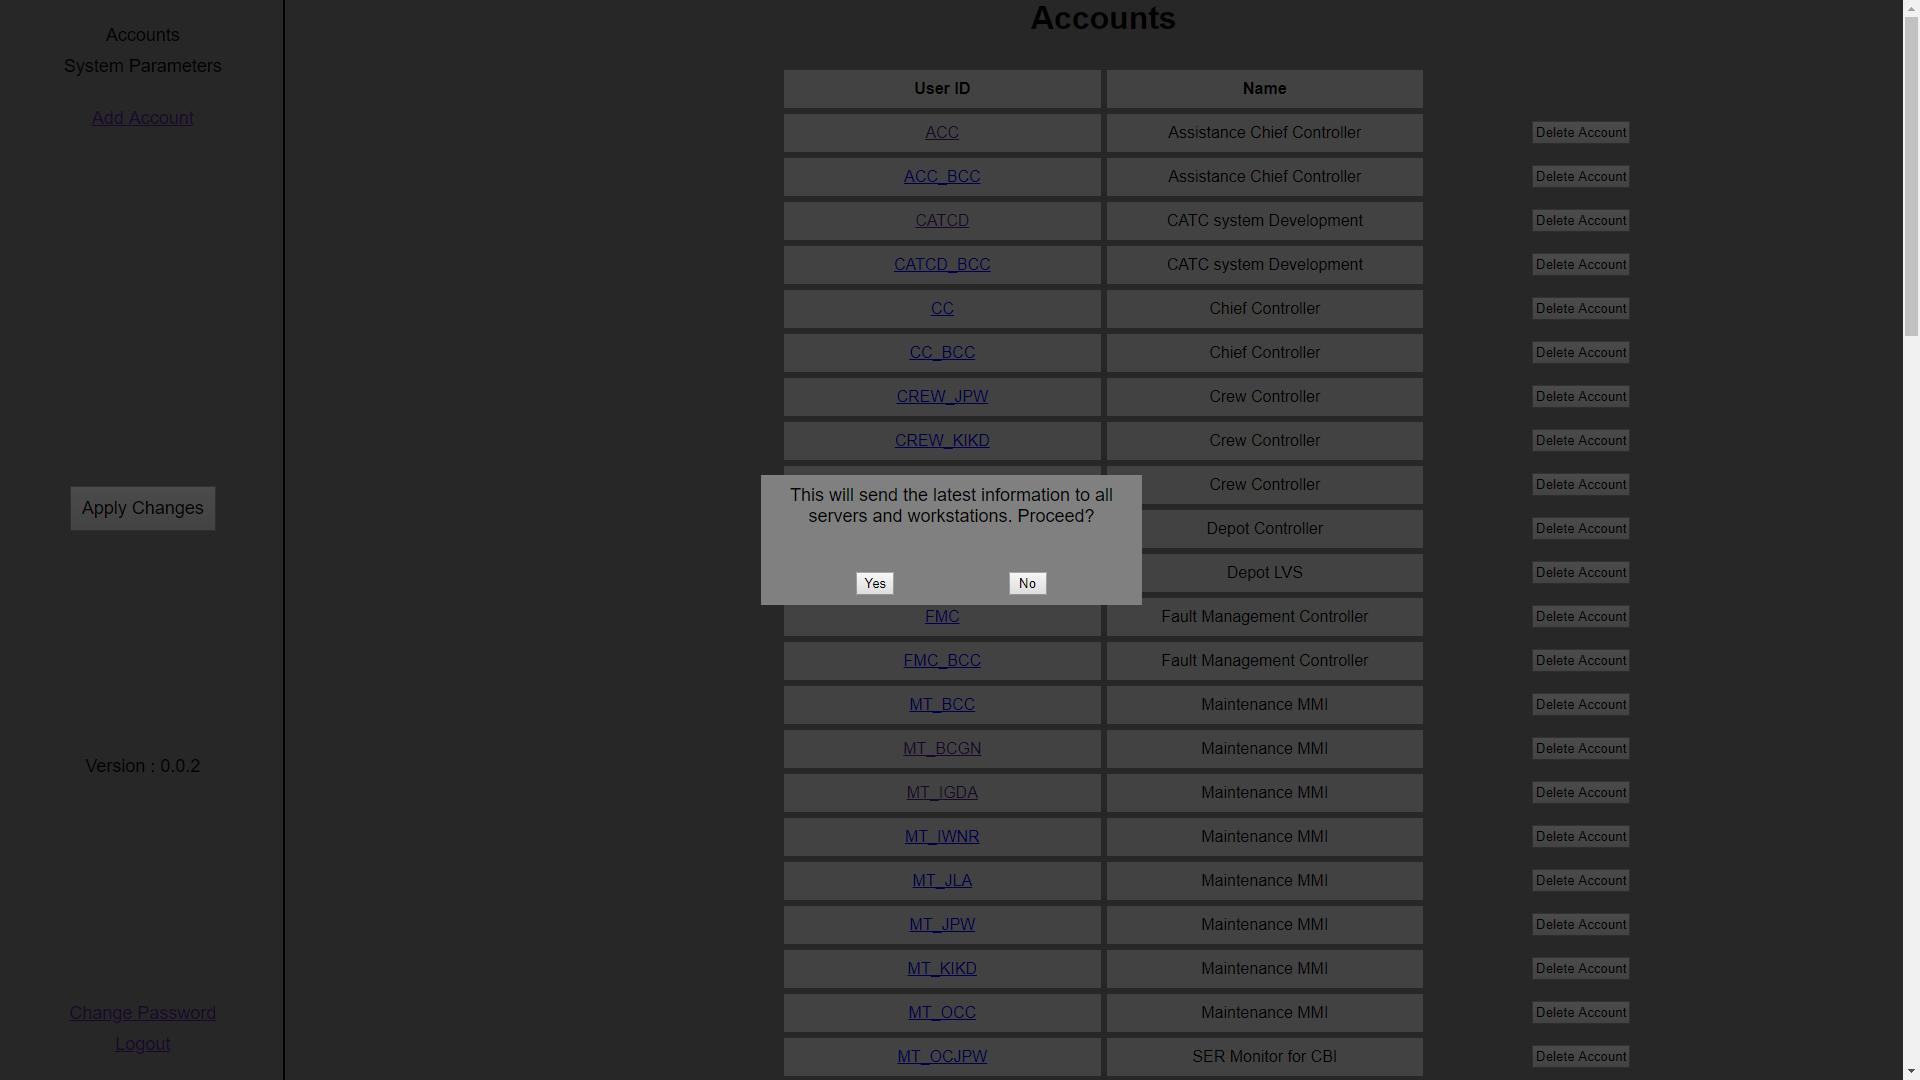
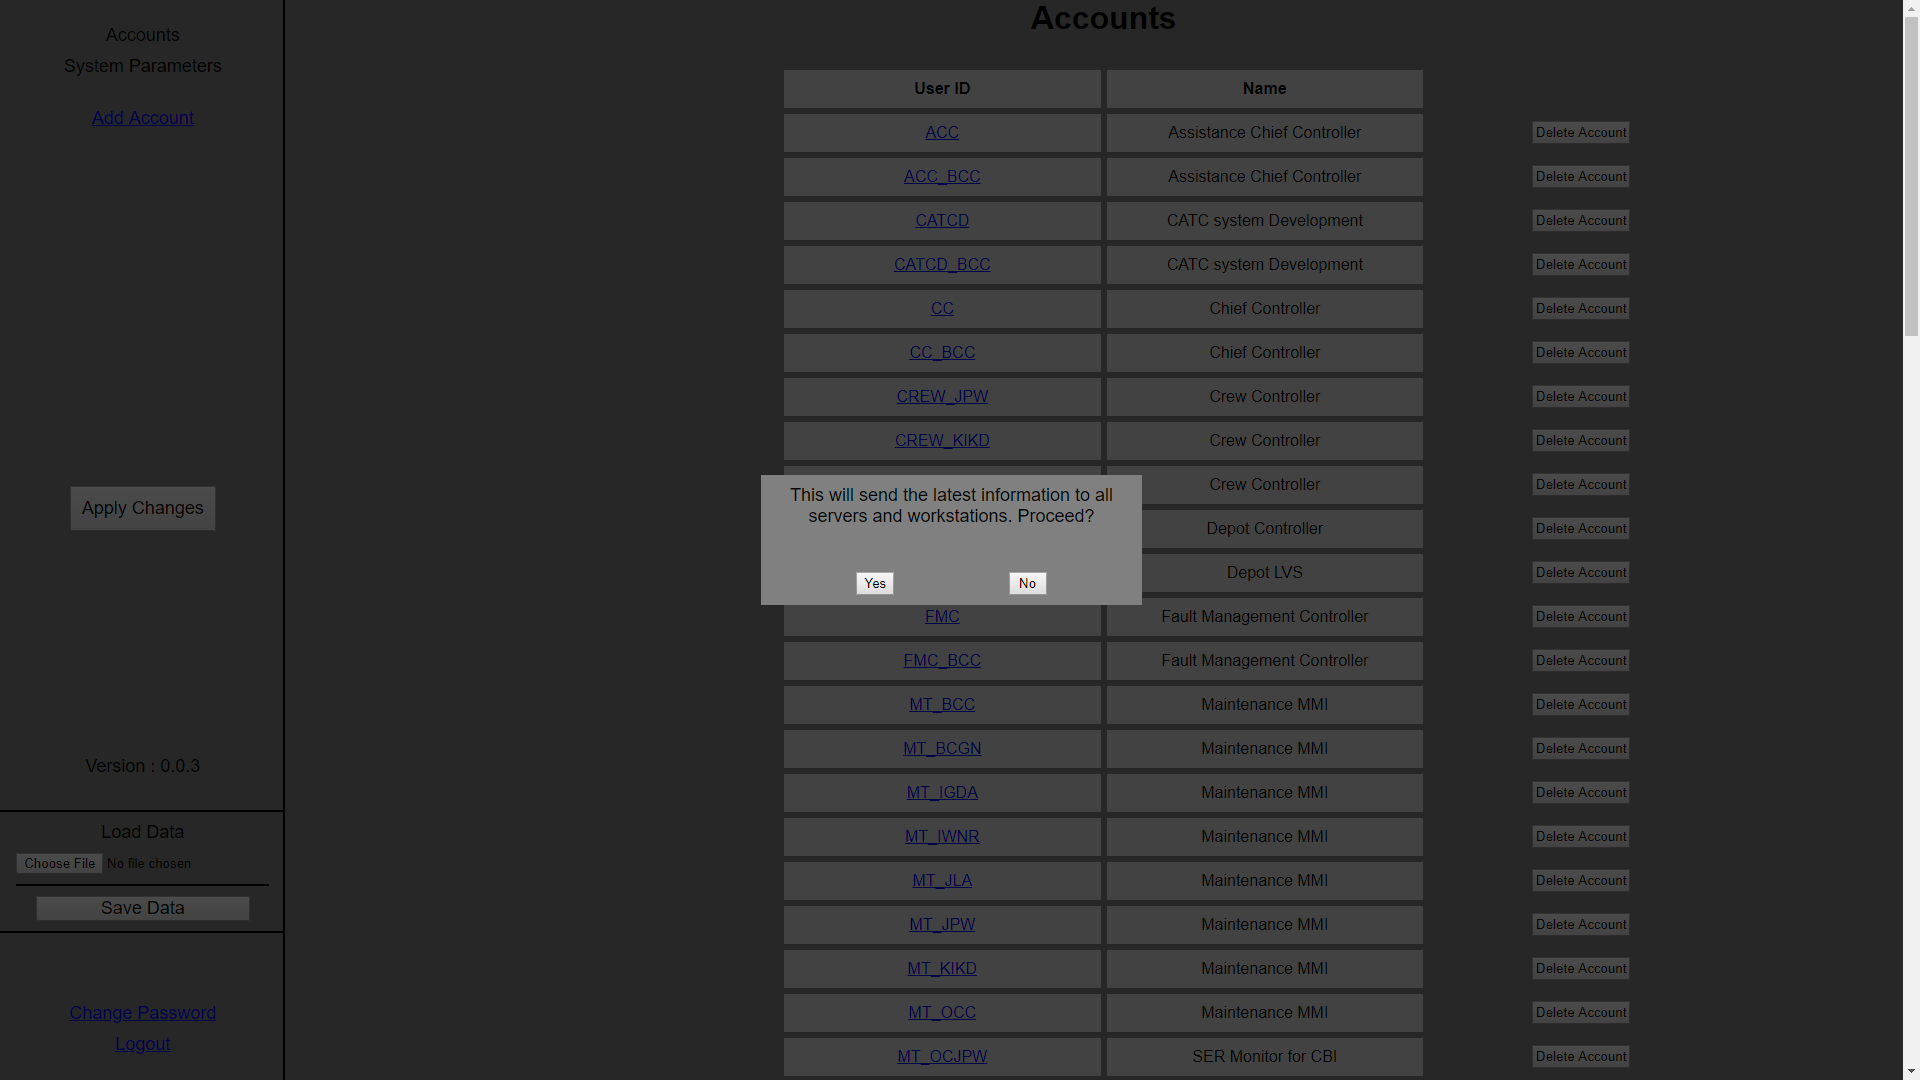
Updated Docs, fixed deletion bug in RS/Crew Roster

diff --git a/doc/Docs.md b/doc/Docs.md
@@ -1,45 +1,55 @@
 - [ASPMS](#aspms)
-    - [Pre Installation Instructions](#pre-installation-instructions)
-    - [How to Install](#how-to-install)
-        - [Build from source](#build-from-source)
-        - [Run Precompiled binary (ASPMS)](#run-precompiled-binary-aspms)
-    - [How it works](#how-it-works)
-        - [Saving Data](#saving-data)
-        - [Updating Data](#updating-data)
-    - [Login](#login)
-        - [How to Login](#how-to-login)
-    - [Home](#home)
-        - [Sidebar](#sidebar)
-        - [Views](#views)
-            - [Accounts View](#accounts-view)
-            - [System Parameters View](#system-parameters-view)
-    - [Add Account](#add-account)
-    - [Edit Account](#edit-account)
-    - [Running Time Lists](#running-time-lists)
-        - [Sidebar](#sidebar)
-        - [Views](#views)
-            - [Maximum Performance](#maximum-performance)
-            - [Five Percent Coasting](#five-percent-coasting)
-            - [Eight Percent Coasting](#eight-percent-coasting)
-            - [Energy Saving](#energy-saving)
-            - [Full Coasting](#full-coasting)
-        - [How to Edit](#how-to-edit)
-        - [Accepted Values](#accepted-values)
-    - [Dwell Time Sets](#dwell-time-sets)
-        - [Sidebar](#sidebar)
-        - [Views](#views)
-            - [Dwell Time Set 1](#dwell-time-set-1)
-            - [Dwell Time Set 2](#dwell-time-set-2)
-            - [Dwell Time Set 3](#dwell-time-set-3)
-        - [How to Edit](#how-to-edit)
-        - [Accepted Values](#accepted-values)
-    - [Alarm Levels](#alarm-levels)
-        - [How to Edit](#how-to-edit)
-        - [How to Save](#how-to-save)
-    - [Change Password](#change-password)
-        - [How to Edit](#how-to-edit)
-        - [How to Save](#how-to-save)
-        - [Accepted Values](#accepted-values)
+  - [Pre Installation Instructions](#pre-installation-instructions)
+  - [How to Install](#how-to-install)
+    - [Build from source](#build-from-source)
+    - [Run Precompiled binary (ASPMS)](#run-precompiled-binary-aspms)
+  - [How it works](#how-it-works)
+    - [Saving Data](#saving-data)
+    - [Updating Data](#updating-data)
+  - [Login](#login)
+    - [How to Login](#how-to-login)
+  - [Home](#home)
+    - [Sidebar](#sidebar)
+    - [Views](#views)
+      - [Accounts View](#accounts-view)
+      - [System Parameters View](#system-parameters-view)
+  - [Add Account](#add-account)
+  - [Edit Account](#edit-account)
+  - [Running Time Lists](#running-time-lists)
+    - [Sidebar](#sidebar-1)
+    - [Views](#views-1)
+      - [Maximum Performance](#maximum-performance)
+      - [Five Percent Coasting](#five-percent-coasting)
+      - [Eight Percent Coasting](#eight-percent-coasting)
+      - [Energy Saving](#energy-saving)
+      - [Full Coasting](#full-coasting)
+    - [How to Edit](#how-to-edit)
+    - [Accepted Values](#accepted-values)
+  - [Dwell Time Sets](#dwell-time-sets)
+    - [Sidebar](#sidebar-2)
+    - [Views](#views-2)
+      - [Dwell Time Set 1](#dwell-time-set-1)
+      - [Dwell Time Set 2](#dwell-time-set-2)
+      - [Dwell Time Set 3](#dwell-time-set-3)
+    - [How to Edit](#how-to-edit-1)
+    - [Accepted Values](#accepted-values-1)
+  - [Alarm Levels](#alarm-levels)
+    - [How to Edit](#how-to-edit-2)
+    - [How to Save](#how-to-save)
+  - [Rolling Stock Roster](#rolling-stock-roster)
+    - [How to Add Rolling Stock](#how-to-add-rolling-stock)
+    - [Accepted Values](#accepted-values-2)
+    - [How to Delete Rolling Stock](#how-to-delete-rolling-stock)
+    - [How to Save](#how-to-save-1)
+  - [Crew Roster](#crew-roster)
+    - [How to Add Crew](#how-to-add-crew)
+    - [Accepted Values](#accepted-values-3)
+    - [How to Delete Crew](#how-to-delete-crew)
+    - [How to Save](#how-to-save-2)
+  - [Change Password](#change-password)
+    - [How to Edit](#how-to-edit-3)
+    - [How to Save](#how-to-save-3)
+    - [Accepted Values](#accepted-values-4)
 
 # ASPMS
 Welcome to Accounts and System Parameters Management System.
@@ -122,6 +132,19 @@ Click on **Apply Changes**, and then click **Yes** in the confirmation dialog. T
 *Add Account*
 
 This link can be clicked to add a new account via the Add Account page.
+
+*Version*
+
+This section displays the current version of ASPMS.
+
+*Load Data*
+
+This button can be used to import the data that was previously exported from ASPMS. The imported data is automatically saved and ASPMS is updated to use it.
+Clicking on this button opens up a window, from which the user can browse to the file to be loaded. After selecting the file in window, user can click on Open button to load it into ASPMS.
+
+*Save Data*
+
+This button can be used to export the data that ASPMS holds currently. A new file will be created on the server, and a dialog will display the name of the file.
 
 *Change Password*
 
@@ -436,6 +459,52 @@ Click on **Save Changes** and then click **OK** to save the changes.
 *Home*
 
 Click on **Home** to go back to the home page.
+
+## Rolling Stock Roster
+![Rolling Stock Roster](img/RollingStock.png)
+This page displays a list of the Rolling Stock, showing each Rake ID along with its description.
+
+### How to Add Rolling Stock
+![Rolling Stock Roster](img/AddRollingStock.png)
+Click on **Add Rolling Stock** button at the end of the page. It will add an empty row to the table. Enter the new Rake ID and the associated description.
+
+### Accepted Values
+All Rake IDs must be of the form 801, 802, 803 .. 899, 8A0 ... 8F9. Maximum value is 8F9. Fields can **NOT** be left blank.
+
+The description has a maximum length of 25 characters.
+
+### How to Delete Rolling Stock
+
+Select the Rolling Stock to be deleted by clicking on the checkboxes next to them. Then click on **Delete Rolling Stock** button to delete the selected Rolling Stock.
+
+### How to Save
+Click on **Save Changes** and then **OK** to save the changes.
+
+>**NOTE :** Rolling Stock cannot be added if invalid information is provided. Appropriate error message will be displayed.
+![Error](img/ValidationRS.png)
+
+## Crew Roster
+![Crew Roster](img/Crew.png)
+This page displays a list of the Crew, showing each Crew ID along with its description.
+
+### How to Add Crew
+![Crew Roster](img/AddCrew.png)
+Click on **Add Crew** button at the end of the page. It will add an empty row to the table. Enter the new Crew ID and the associated description.
+
+### Accepted Values
+All Crew IDs must be a number. Maximum value is 9999. Fields can **NOT** be left blank.
+
+The description has a maximum length of 25 characters.
+
+### How to Delete Crew
+
+Select the Crew to be deleted by clicking on the checkboxes next to them. Then click on **Delete Crew** button to delete the selected Crew.
+
+### How to Save
+Click on **Save Changes** and then **OK** to save the changes.
+
+>**NOTE :** Crew cannot be added if invalid information is provided. Appropriate error message will be displayed.
+![Error](img/ValidationCrew.png)
 
 ## Change Password
 ![Change Password](img/ChangePassword.png)
